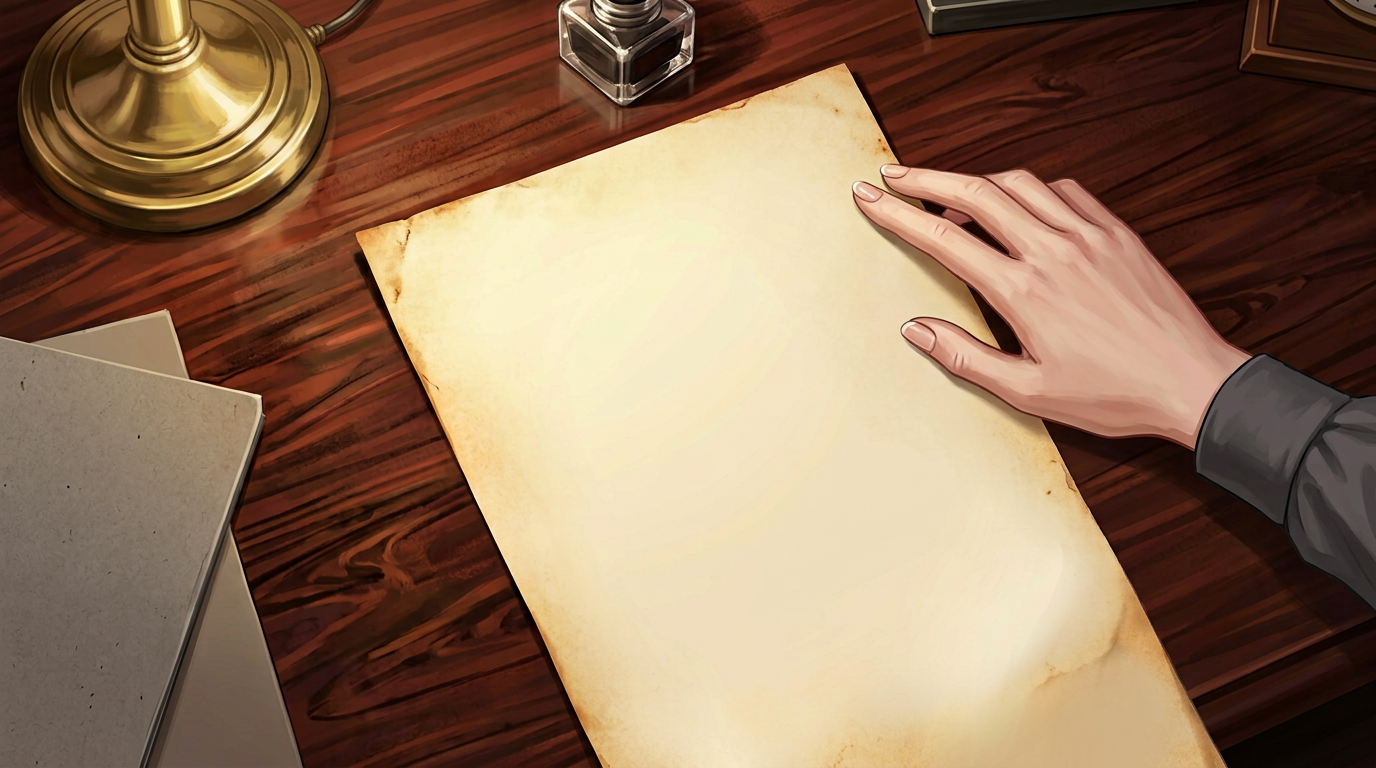
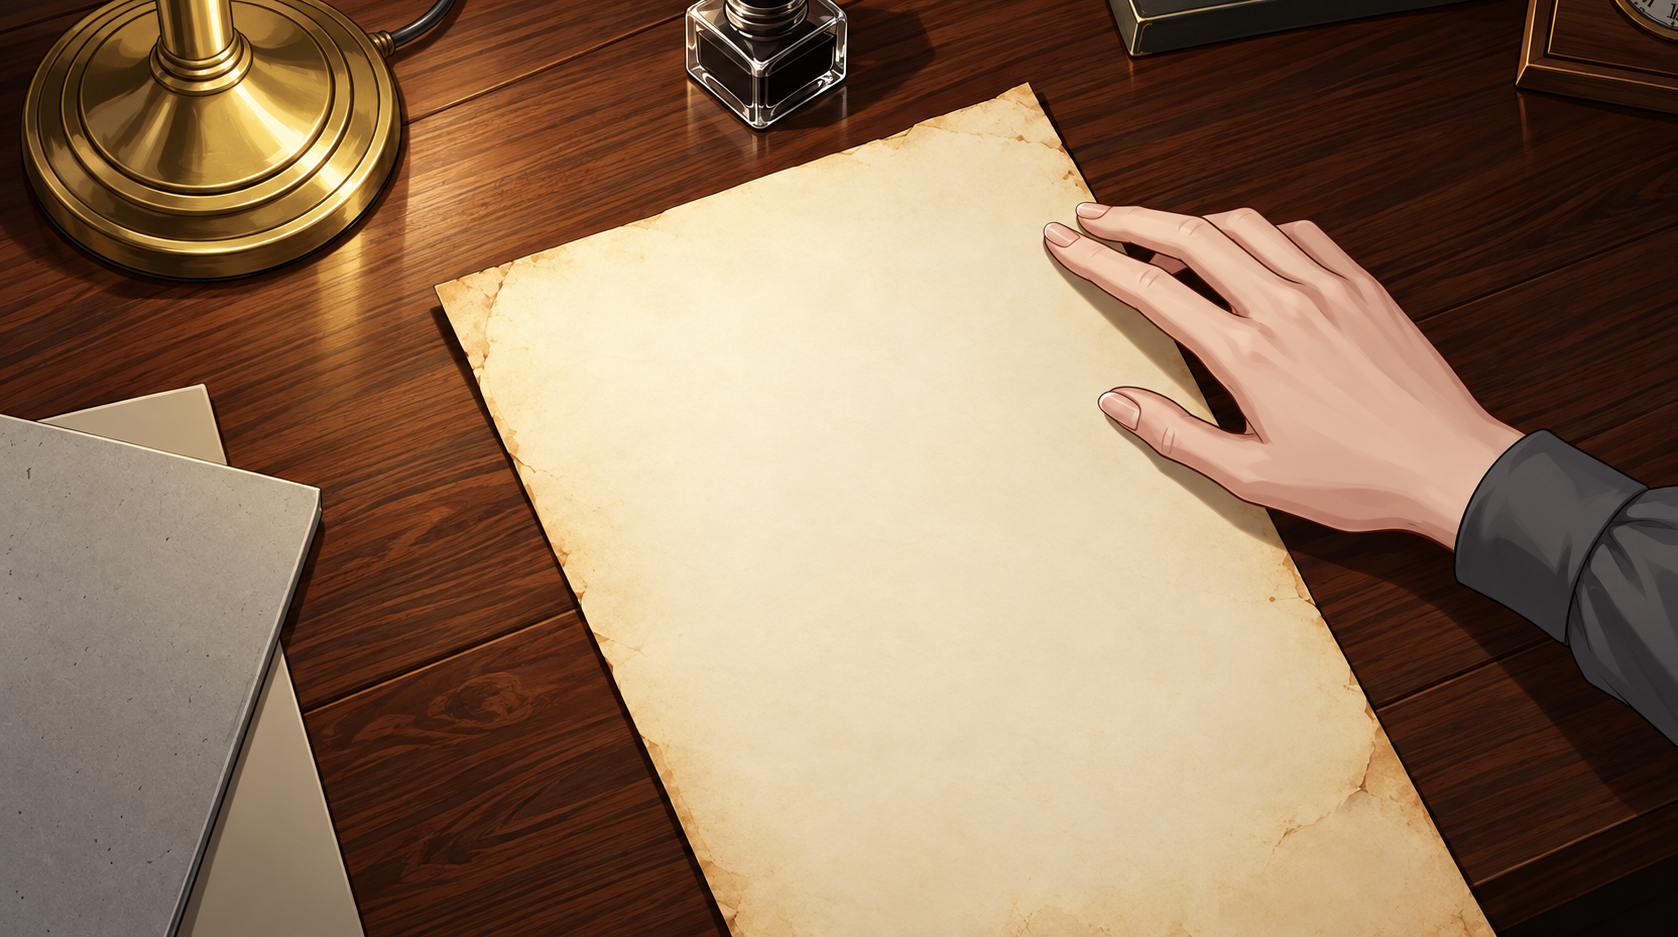
Лист на латыни на доработанной основе автора; feedback_log
- base.png заменена версией автора (1678×937), текст переложен скриптом
- compose.py: основу в размере CG не трогает, замеры в общих координатах,
  маска руки с заливкой бликов на ногтях, режим DEBUG
- feedback_log: музыка, Ника, дождь в помещениях, H, лист

diff --git a/art/cg_latin_page/compose.py b/art/cg_latin_page/compose.py
@@ -23,8 +23,11 @@ FD = os.environ.get("FONTS", os.path.join(HERE, "fonts")) + "/"
 OW, OH = 1678, 937  # размер готовых CG
 
 base0 = Image.open(BASE).convert("RGB")
-S = OW / base0.width
-base = base0.resize((OW, OH), Image.LANCZOS).filter(ImageFilter.UnsharpMask(radius=1.2, percent=40, threshold=2))
+S = OW / 1376.0  # все замеры ниже сняты в кадре шириной 1376 и масштабируются под 1678
+if base0.size == (OW, OH):
+    base = base0  # основа уже в размере CG (апскейл автора) — не трогаем
+else:
+    base = base0.resize((OW, OH), Image.LANCZOS).filter(ImageFilter.UnsharpMask(radius=1.2, percent=40, threshold=2))
 B = np.asarray(base).astype(np.float32)
 
 # ---------- маска листа и руки ----------
@@ -38,25 +41,42 @@ paperish = cv2.morphologyEx(paperish, cv2.MORPH_CLOSE, np.ones((15, 15), np.uint
 paperish = cv2.morphologyEx(paperish, cv2.MORPH_OPEN, np.ones((9, 9), np.uint8))
 n, lbl, st, _ = cv2.connectedComponentsWithStats(paperish)
 pm = (lbl == 1 + np.argmax(st[1:, cv2.CC_STAT_AREA])).astype(np.uint8)
-# кожа: краснее бумаги (a* выше), оттенок ближе к красному
-skin = ((A.astype(int) > 138) & (L > 90)).astype(np.uint8)
-skin = cv2.morphologyEx(skin, cv2.MORPH_OPEN, np.ones((5, 5), np.uint8))
+# строгая маска руки — только для поиска краёв листа
+sk = ((A.astype(int) > 138) & (L > 90)).astype(np.uint8)
+sk = cv2.morphologyEx(sk, cv2.MORPH_OPEN, np.ones((5, 5), np.uint8))
+nS, lblS, stS, _ = cv2.connectedComponentsWithStats(sk)
+hand_strict = np.zeros_like(sk)
+for i in range(1, nS):
+    x, y, w, h, a = stS[i]
+    if a > 4000 and x + w > OW * 0.5:
+        hand_strict[lblS == i] = 1
+hand_strict = cv2.dilate(hand_strict, np.ones((9, 9), np.uint8))
+# полная маска руки — чтобы текст уходил под пальцы
+# кожа: краснее бумаги (a* у бумаги 128–131, у кожи 135–155)
+skin = ((A.astype(int) > 133) & (L > 80)).astype(np.uint8)
+skin = cv2.morphologyEx(skin, cv2.MORPH_OPEN, np.ones((3, 3), np.uint8))
 n2, lbl2, st2, _ = cv2.connectedComponentsWithStats(skin)
 hand = np.zeros_like(skin)
 for i in range(1, n2):
     x, y, w, h, a = st2[i]
-    if a > 4000 and x + w > OW * 0.5:  # крупное пятно справа — рука
+    if a > 4000 and x + w > OW * 0.5:  # крупное пятно справа — рука (вместе со столом, тексту это не мешает)
         hand[lbl2 == i] = 1
-hand = cv2.dilate(hand, np.ones((9, 9), np.uint8))
-sleeve = ((L < 120) & (Ss < 40)).astype(np.uint8)  # серый манжет
-occl = np.clip(hand + 0, 0, 1)
+# блики на ногтях и костяшках выпадают из маски — заливаем мелкие дыры
+inv = (1 - hand).astype(np.uint8)
+n3, lbl3, st3, _ = cv2.connectedComponentsWithStats(inv, connectivity=4)
+for i in range(1, n3):
+    x, y, w, h, a = st3[i]
+    if a < 5000 and x > 0 and y > 0 and x + w < OW and y + h < OH:
+        hand[lbl3 == i] = 1
+hand = cv2.morphologyEx(hand, cv2.MORPH_CLOSE, np.ones((7, 7), np.uint8))
+hand = cv2.dilate(hand, np.ones((7, 7), np.uint8))  # с контуром пальцев
+occl = hand.copy()
 
 # ---------- края листа ----------
-ys, xs = np.nonzero(pm & (1 - hand))
 def boundary_rows(y0, y1, side):
     pts = []
     for y in range(y0, y1, 4):
-        r = np.nonzero(pm[y] & (1 - hand[y]))[0]
+        r = np.nonzero(pm[y] & (1 - hand_strict[y]))[0]
         if len(r) > 20:
             pts.append(((r.min() if side == "L" else r.max()), y))
     return np.array(pts, float)
@@ -171,7 +191,7 @@ def paragraph(draw, text, font, y, lh, x0=ML, width=TW, indent=0, fill=255):
         y += lh
     return y
 
-y = 62
+y = 80
 # колонтитул
 head = "STATUTUM CANCELLARIAE SUPERIORIS"
 w = dp.textlength(head, font=f_head) / K
@@ -293,4 +313,10 @@ R = ink(R, hw_, (122, 64, 34), 0.82)
 R = ink(R, zero, (28, 30, 44), 0.85)
 out = Image.fromarray(np.clip(R, 0, 255).astype(np.uint8))
 out.save(OUT)
+if os.environ.get("DEBUG"):
+    dbg = np.asarray(out).copy()
+    dbg[hand > 0] = (dbg[hand > 0] * 0.5 + np.array([0, 160, 255]) * 0.5).astype(np.uint8)
+    dbg_im = Image.fromarray(dbg); d = ImageDraw.Draw(dbg_im)
+    d.polygon([tuple(p) for p in quad], outline=(255, 0, 0))
+    dbg_im.save(os.path.splitext(OUT)[0] + "_debug.png")
 print("saved", OUT)

diff --git a/docs/feedback_log.md b/docs/feedback_log.md
@@ -153,3 +153,11 @@
 - **Идея автора:** «в третьем дне на латыни про хранителя на бумаге с переводом». Страница, которую Валерия показывает Саше (day3_1_office), теперь латинская: устав Верхней канцелярии, § 7 про переплавку памяти. Под абзацем рукописный перевод с ятями, его Саша и читает. В диалоге идёт латинская строка, за ней перевод. Лист показан на CG `cg_d3_latin_page`.
 - Латынь собрана только из лексики мира (Custos, Registrum, Cancellaria Superior, Statutum, cassatio), церковных слов нет. Заодно исправлены яти в переводе: «свѣдѣнія», «ввѣренномъ».
 
+## 03.11 — музыка, дождь в помещениях, скрытие интерфейса
+
+- **«Сделай музыку более разнообразной»:** 39 треков вместо 23. «River Fog» и «workflow» больше не звучат через главу. Новые треки поставлены по их описаниям из старого проекта: дорога к аварии, вспышки памяти Миры, поиски Лены, разговоры с людьми, ночной быт. Карта по главам: `production/assets.md`, §3.
+- **«Нике сделай, чтобы ещё The Great Office Meeting играл, и чаще обычной её, её обычная более весёлая»:** теперь у Ники две темы. «The Great Office Meeting» звучит, когда она на работе или говорит о работе: ведомость в бюро, «переработки» в кафе, балкон с Мирой, лифт с папкой, ступени бюро. «Bounce Stop» осталась для её весёлых сцен: первое появление, бабл-ти, перила ночью. Офисная тема звучит в пяти местах, весёлая в трёх.
+- **«Эффект дождя в квартире не должен быть, у нас же дождь не идёт в помещениях»:** движок гасит дождь на фонах в помещении (список `INDOOR_BGS` в `vn-config.js`). Раньше дождь шёл в 93 узлах: в квартире, в подъездах и в салоне Валерии. На улице дождь возвращается сам.
+- **Скрытие интерфейса (H):** автор согласился. Клавиша H или кнопка «Скрыть (H)» убирает окно текста и меню, чтобы посмотреть на CG. Клик или любая клавиша возвращают их, сюжет при этом не листается.
+- **Лист на латыни:** автор доработал основу (`paper.png`). Текст переложен скриптом на его версию, маска руки поправлена: блики на ногтях теперь закрывают текст.
+

diff --git a/art/cg_latin_page/README.md b/art/cg_latin_page/README.md
@@ -2,10 +2,10 @@
 
 День 3, кабинет Валерии (`script/day3_1_office.js`). Валерия кладёт перед Сашей страницу из архива. Текст на ней латинский, под § 7 кто-то давно вписал перевод от руки, с ятями. CG стоит с этого узла и держится, пока Саша читает. Фон кабинета возвращается на «Она меня забудет…» или на «Знаете, хватит…».
 
-- `base.png` — сгенерированная основа: пустой лист на столе, рука Валерии держит угол, серая папка, лампа. Текста на ней нет.
+- `base.png` — основа без текста: пустой лист на столе, рука Валерии держит угол, серая папка, лампа. 03.11 заменена версией автора (доработана и уже в размере CG, 1678×937), первая сгенерированная осталась в истории git.
 - `compose.py` — кладёт текст на лист с перспективой, прячет его под пальцами и рисует ноль на папке. Как запустить и где взять шрифты, написано в начале файла.
 
-Если основу апскейлить или перерисовать, текст нужно переложить скриптом заново. Апскейл готовой картинки размоет буквы.
+Если основу снова доработать или перерисовать, текст нужно переложить скриптом заново. Апскейл готовой картинки размоет буквы. Скрипт сам находит края листа и руку по цвету. Для проверки маски запустить с `DEBUG=1`: рядом появится картинка с контуром листа и подсвеченной рукой.
 
 ## Что написано на листе
 
